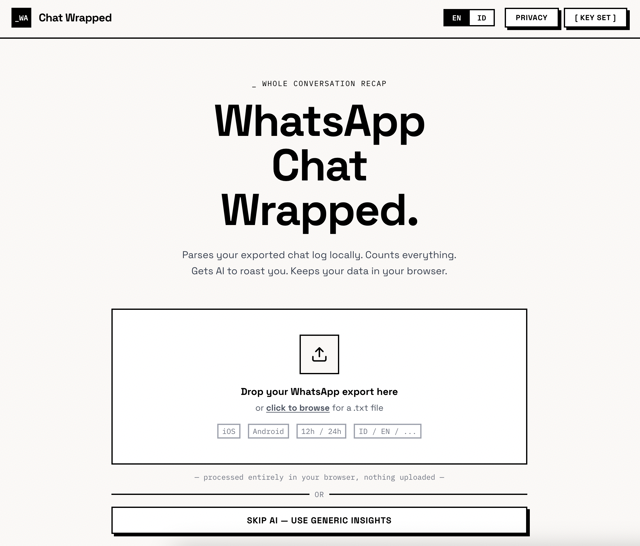
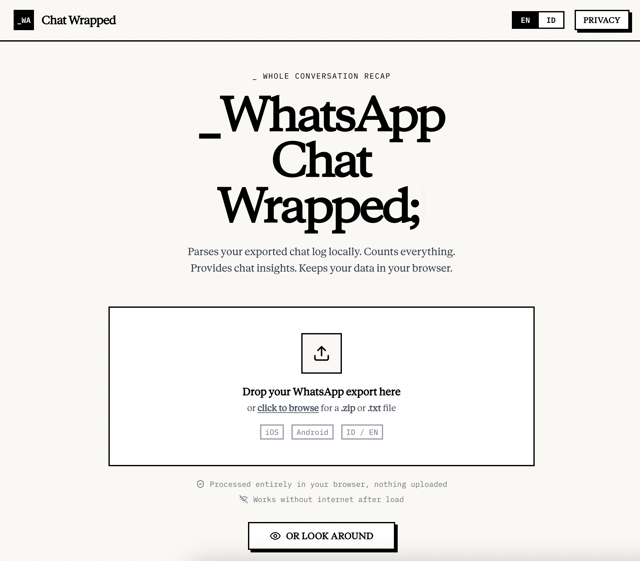
fix: disable gemini api calls for more insights in demo mode and update og-image

Changed region(s): [[0.1562, 0.1245, 0.8438, 0.9963], [0.0, 0.0, 1.0, 0.0934]]

diff --git a/src/components/cards/InsightCard.tsx b/src/components/cards/InsightCard.tsx
@@ -9,10 +9,11 @@ interface Props {
   insights: GeminiInsights;
   metrics: ParsedChatMetrics;
   insightStatus?: 'success' | 'opt_out' | 'failed' | 'failed_429' | 'failed_503';
+  isDemoMode?: boolean;
   onRetry?: () => void;
 }
 
-export default function InsightCard({ insights, metrics, insightStatus = 'success', onRetry }: Props) {
+export default function InsightCard({ insights, metrics, insightStatus = 'success', isDemoMode = false, onRetry }: Props) {
   const { t, language } = useLanguage();
   const [insightList, setInsightList] = useState<string[]>([insights.chat_insight]);
   const [exhausted, setExhausted] = useState(false);
@@ -21,7 +22,7 @@ export default function InsightCard({ insights, metrics, insightStatus = 'succes
   const [loading, setLoading] = useState(false);
   const [error, setError] = useState<string | null>(null);
 
-  const isOffline = insightStatus !== 'success';
+  const isOffline = insightStatus !== 'success' || isDemoMode;
   const maxRegenerations = isOffline 
     ? Math.min(9, Math.max(0, getOfflineInsightCount(metrics, language) - 1)) 
     : 3;

diff --git a/src/components/ResultsDashboard.tsx b/src/components/ResultsDashboard.tsx
@@ -360,6 +360,7 @@ function ResultsDashboardInner({
                     insights={insights}
                     metrics={metrics}
                     insightStatus={insightStatus}
+                    isDemoMode={isDemoMode}
                     onRetry={onRetryAI}
                   />
                 </div>
